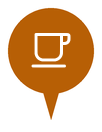
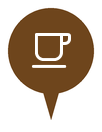
Collection kinds without pills, and cafés/eats colours pulled apart (#1307)
* Collection kinds as Explore's filter row: the dot and the word, no pill

On a collection's card the kind pills were a box inside a box. The owner
asked whether the dot and the label would do (12 Nov 2026).

As a filter they do, if "chosen" is still said. `KindPills` takes
`bare`:

- Each kind is drawn as its dot and its word, on no fill.
- The chosen one wears Explore's accent rule under the word, with the
  word in the accent. The other filter row in the app says "chosen" the
  same way.
- The rule is drawn clear on the rest, so choosing moves nothing.
- A collection with one kind filters nothing, and shows the dot and the
  word alone.

The gap between kinds is 18pt: Explore's 22 between 15pt words scales
to 19 for these 13pt ones, and one point comes off for the dot in front
of each word.

Claude-Session: https://claude.ai/code/session_0173RhrvC7XRbsWK1BenkCKq

* Cafés and eats pulled apart: coffee brown and a brighter orange

The owner found the two kinds' colours could not be told apart side by
side on a collection's card, and asked for new ones, knowing the map's
pins follow (12 Nov 2026).

Measured at the worst of normal, deuteranopic and protanopic vision
(CIEDE2000):

- The two dots sat 6° apart at one lightness, 2.7 apart.
- The eats pin sat 1.1 from nature's for a red-green reader.

The fix keeps the convention a reader already holds (coffee is brown,
food is orange) and pulls the two apart in lightness, the one
[…]

diff --git a/app/src/components/KindPill.tsx b/app/src/components/KindPill.tsx
@@ -44,11 +44,14 @@ import { PressableScale } from './ui';
  * out. A key the table has not learned keeps its word, tidied, and has
  * no dot: a colour is a category's, and an unknown one has none to give.
  */
-export function KindPill({ kind, more = 0, chosen = false, off = false, bare = false, testID }: {
+export function KindPill({ kind, more = 0, chosen = false, off = false, bare = false, underline = false, testID }: {
   kind: string; more?: number;
   /** The place card's form (owner, 6 Nov 2026): the dot and the word on
    *  the page itself, with no pill under them — see `bare` below. */
   bare?: boolean;
+  /** Bare and a filter: chosen says itself with Explore's rule under the
+   *  word rather than a lit pill — see `KindPills`. */
+  underline?: boolean;
   /** Lit as a chosen filter — see `KindPills`. */
   chosen?: boolean;
   /** Hidden by the list's owner — see `KindToggles`. */
@@ -58,7 +61,7 @@ export function KindPill({ kind, more = 0, chosen = false, off = false, bare = f
   const { t } = useI18n();
   const style = CATEGORIES[kind];
   return (
-    <View style={[bare ? s.bare : s.pill, chosen && s.pillOn, off && s.pillOff]} testID={testID}>
+    <View style={[bare ? s.bare : s.pill, bare && underline && s.rule, chosen && (bare ? underline && s.ruleOn : s.pillOn), off && s.pillOff]} testID={testID}>
       {style ? <View style={[s.dot, { backgroundColor: off ? colors.textTertiary : style.color }]} /> : null}
       <Text style={[s.label, bare && s.labelBare, chosen && s.labelOn]} numberOfLines={1}>{categoryLabel(kind, t)}</Text>
       {more > 0 ? (
@@ -87,8 +90,16 @@ export function KindPill({ kind, more = 0, chosen = false, off = false, bare = f
  * and pills, so two pills' slops meet and never overlap — a tap lands on
  * the pill it is nearest.
  */
-export function KindPills({ kinds, chosen = [], onPick, style, testID }: {
+export function KindPills({ kinds, chosen = [], onPick, bare = false, style, testID }: {
   kinds: readonly string[];
+  /**
+   * The dot and the word with no pill (owner, 12 Nov 2026): on a
+   * collection's card the pills were a box inside a box. As a filter the
+   * chosen one takes Explore's rule under the word and the accent on it,
+   * so the two filter rows in the app say "chosen" the same way; a lone
+   * kind, which filters nothing, is the dot and the word alone.
+   */
+  bare?: boolean;
   chosen?: readonly string[];
   onPick?: (kind: string) => void;
   style?: StyleProp<ViewStyle>;
@@ -97,10 +108,10 @@ export function KindPills({ kinds, chosen = [], onPick, style, testID }: {
   const { t } = useI18n();
   if (!kinds.length) return null;
   return (
-    <View style={[s.row, style]} testID={testID}>
+    <View style={[s.row, bare && s.rowBare, style]} testID={testID}>
       {kinds.map((k) => {
         const id = testID ? `${testID}-${k}` : undefined;
-        if (!onPick) return <KindPill key={k} kind={k} testID={id} />;
+        if (!onPick) return <KindPill key={k} kind={k} bare={bare} testID={id} />;
         const on = chosen.includes(k);
         return (
           <PressableScale
@@ -114,7 +125,7 @@ export function KindPills({ kinds, chosen = [], onPick, style, testID }: {
             aria-selected={on}
             testID={id}
           >
-            <KindPill kind={k} chosen={on} />
+            <KindPill kind={k} chosen={on} bare={bare} underline={bare} />
           </PressableScale>
         );
       })}
@@ -220,4 +231,12 @@ const s = StyleSheet.create({
   // paper, 6:1 on charcoal).
   moreBare: { color: colors.textTertiary },
   row: { flexDirection: 'row', flexWrap: 'wrap', gap: 8 },
+  // With no pill, the gap is what tells one kind from the next: Explore's
+  // 22 between 15pt words, scaled to these 13pt ones (19), down a point
+  // for the dot each of these carries in front of its word.
+  rowBare: { columnGap: 18 },
+  // Explore's rule (`tabItem`): drawn clear when unchosen, so choosing one
+  // changes a colour and moves nothing.
+  rule: { paddingVertical: 4, borderBottomWidth: 2, borderBottomColor: 'transparent' },
+  ruleOn: { borderBottomColor: colors.accent },
 });

diff --git a/app/src/lib/categories.ts b/app/src/lib/categories.ts
@@ -53,7 +53,8 @@ export type CategoryStyle = {
    * Hue is identical to `color`, which is what makes this the same colour
    * rather than a second one. Solved in that order and no other: exact
    * hue first, then saturation at or above 55%, then the lightest
-   * remaining step whose glyph still clears 4.5:1. Never against a fixed
+   * remaining step whose glyph still clears 4.5:1 — save `cafes`, taken
+   * darker to stand off `eats` (see above `STYLES`). Never against a fixed
    * lightness — blue and green carry more luminance at the same HSL step
    * and would hand `nature` a 2.32:1 glyph. `views` lands at 6.63 because
    * the lighter candidates on its line miss the hue by a fifth of a
@@ -82,15 +83,39 @@ export type Category = typeof CATEGORY_ORDER[number];
 /** Every key in `CATEGORY_ORDER` has a row, or this does not compile —
  *  a category added to the order without its style used to surface as a
  *  chip with no glyph. */
+// ── cafés and eats, pulled apart (owner, 12 Nov 2026) ──
+//
+// They sat 6° apart, at 30° and 24°, at one lightness: side by side on a
+// collection's card the owner could not tell them apart, and measured
+// they were 2.7 apart in CIEDE2000 at the worst of normal, deuteranopic
+// and protanopic vision — about the step at which two colours start to
+// separate at all. Their pins were worse: eats sat 1.1 from nature for a
+// red-green reader.
+//
+// Kept on the convention a reader already holds — coffee is brown, food
+// is orange, as both phone map apps colour them — and pulled apart in
+// lightness, the one difference no kind of colour blindness takes away.
+// Cafés went down to a coffee brown, eats up to a brighter orange, each
+// on its own hue as before:
+//
+//              dot                 pin               dots apart  pin's nearest
+//   was   cafés #D2A679  eats #E09A6B   #B75F05 #A45E2F    2.7      eats–nature 1.1
+//   now   cafés #A6733F  eats #EB8347   #6E451C #B16133   10.0      eats–nature 3.9
+//
+// The cost is that the cafés' dot is the darkest of the nine on paper
+// (3.6:1 against the others' 1.8–2.5), and its pin is darker than the
+// rule under `pin` gives: the lightest step on its line, #A36A2F, was 0.5
+// from the eats pin. Coffee is the kind the catalog holds most of, and
+// a darker brown is still coffee.
 const STYLES = {
   cafes: {
-    en: 'Cafés', vi: 'Cà phê', ja: 'カフェ', zh: '咖啡馆', hant: '咖啡館', icon: 'cafe-outline', color: '#D2A679',
-    pin: '#B75F05', food: true,
+    en: 'Cafés', vi: 'Cà phê', ja: 'カフェ', zh: '咖啡馆', hant: '咖啡館', icon: 'cafe-outline', color: '#A6733F',
+    pin: '#6E451C', food: true,
     terms: ['coffee', 'espresso', 'latte', 'quán cà phê', 'cà phê', 'コーヒー', '喫茶', '咖啡'],
   },
   eats: {
-    en: 'Eats', vi: 'Ăn uống', ja: '食事', zh: '美食', hant: '美食', icon: 'restaurant-outline', color: '#E09A6B',
-    pin: '#A45E2F', food: true,
+    en: 'Eats', vi: 'Ăn uống', ja: '食事', zh: '美食', hant: '美食', icon: 'restaurant-outline', color: '#EB8347',
+    pin: '#B16133', food: true,
     terms: ['restaurant', 'food', 'dining', 'lunch', 'dinner', 'nhà hàng', 'quán ăn', 'ăn uống', 'レストラン', 'グルメ', '餐厅', '美食', '餐廳'],
   },
   views: {

diff --git a/app/src/components/KindPill.ui.test.tsx b/app/src/components/KindPill.ui.test.tsx
@@ -98,6 +98,33 @@ describe('KindPills as a filter', () => {
   });
 });
 
+// Bare (owner, 12 Nov 2026): a collection's kinds on its card with no
+// pill. As a filter the chosen one wears Explore's accent rule under the
+// word, drawn clear on the rest; a row that filters nothing has no rule.
+describe('KindPills, bare', () => {
+  const face = (id: string) => getComputedStyle(screen.getByTestId(id).firstElementChild!.firstElementChild as HTMLElement);
+  const accent = String(colors.accent).replace(/,(?=\S)/g, ', ');
+  const hex = (h: string) => { const n = parseInt(h.slice(1), 16); return `rgb(${n >> 16}, ${(n >> 8) & 255}, ${n & 255})`; };
+
+  it('rules the chosen one in the accent, the rest clear, on no fill', () => {
+    render(<KindPills kinds={['eats', 'views']} chosen={['views']} onPick={() => {}} bare testID="row" />);
+    expect(face('row-views').borderBottomColor).toBe(accent.startsWith('#') ? hex(accent) : accent);
+    expect(face('row-eats').borderBottomColor).toBe('rgba(0, 0, 0, 0)');
+    for (const id of ['row-views', 'row-eats']) {
+      expect(face(id).borderBottomWidth).toBe('2px');
+      expect(face(id).backgroundColor).toBe('rgba(0, 0, 0, 0)');
+    }
+    expect(getComputedStyle(screen.getByTestId('row')).columnGap).toBe('18px');
+  });
+
+  it('is the dot and the word alone where it filters nothing', () => {
+    render(<KindPills kinds={['eats']} bare testID="row" />);
+    const one = getComputedStyle(screen.getByTestId('row-eats'));
+    expect(one.backgroundColor).toBe('rgba(0, 0, 0, 0)');
+    expect(one.borderBottomWidth).not.toBe('2px');
+  });
+});
+
 // The list form's show/hide row (owner, 16 Oct 2026): the page's pills,
 // each a toggle. Shown is drawn as the page draws it; hidden fades in
 // place with its dot greyed.

diff --git a/app/src/screens/CollectionDetailScreen.ui.test.tsx b/app/src/screens/CollectionDetailScreen.ui.test.tsx
@@ -1904,15 +1904,16 @@ describe('the chips', () => {
     expect(on('nightlife')).toBe(true);
     expect(cards()).toEqual(['card:Cafe Giang']);
     expect(screen.getByTestId('collection-filter-count').textContent).toBe('1 of 4 places');
-    // Lit as Explore's chips are, and only while chosen: the glass a step
-    // heavier, its border drawn in the glass's own line — not an accent
-    // ring — and the word in the accent.
+    // No pill (owner, 12 Nov 2026): the dot and the word, and the chosen
+    // one says so as Explore's filter row does — the accent rule under the
+    // word, drawn clear on the rest so nothing moves — on no fill at all.
     const lit = getComputedStyle(pillOf('nightlife'));
     const unlit = getComputedStyle(pillOf('eats'));
-    expect(lit.borderTopColor).not.toBe(unlit.borderTopColor);
-    expect(lit.backgroundColor).not.toBe(unlit.backgroundColor);
-    expect(lit.borderTopColor).toBe(rgba(String(colors.borderGlass)));
-    expect(lit.borderTopColor).not.toBe(rgba(String(colors.accent)));
+    expect(lit.borderBottomColor).toBe(rgba(String(colors.accent)));
+    expect(unlit.borderBottomColor).toBe('rgba(0, 0, 0, 0)');
+    expect(lit.borderBottomWidth).toBe('2px');
+    expect(unlit.borderBottomWidth).toBe('2px');
+    for (const st of [lit, unlit]) expect(st.backgroundColor).toBe('rgba(0, 0, 0, 0)');
     // One kind at a time (owner, 24 Oct 2026): a second chip moves to its
     // kind rather than widening.
     fireEvent.click(chip('heritage'));

diff --git a/app/src/lib/taxonomy.test.ts b/app/src/lib/taxonomy.test.ts
@@ -230,6 +230,22 @@ function hue(hex: string): number {
 
 const WHITE = '#FFFFFF';
 
+// Cafés and eats, the two kinds most often side by side (owner, 12 Nov
+// 2026): they sat 6° apart at one lightness, and could not be told apart
+// on a collection's card. Pulled apart in lightness, the one difference
+// every kind of colour vision keeps — see the note above `STYLES`.
+describe('cafés and eats', () => {
+  it('differ in lightness on the page and on the map', () => {
+    expect(contrast(CATEGORIES.cafes.color, CATEGORIES.eats.color)).toBeGreaterThanOrEqual(1.5);
+    expect(contrast(CATEGORIES.cafes.pin, CATEGORIES.eats.pin)).toBeGreaterThanOrEqual(1.8);
+  });
+
+  it('stay coffee-brown and orange, on their own hues', () => {
+    expect(hue(CATEGORIES.cafes.color)).toBeCloseTo(30.3, 0);
+    expect(hue(CATEGORIES.eats.color)).toBeCloseTo(22, 0);
+  });
+});
+
 describe('the map pin palette', () => {
   it('gives every category in the filter row a fill', () => {
     for (const key of CATEGORY_ORDER) {

diff --git a/app/src/screens/CollectionDetailScreen.tsx b/app/src/screens/CollectionDetailScreen.tsx
@@ -544,6 +544,7 @@ export default function CollectionDetailScreen({ navigation, route }: { navigati
         kinds={kinds}
         chosen={chosen}
         onPick={filters ? pick : undefined}
+        bare
         testID="collection-kinds"
       />
       {narrowed ? (

diff --git a/app/scripts/map-pins.py b/app/scripts/map-pins.py
@@ -43,7 +43,11 @@ WHITE = (255, 255, 255, 255)
 def parse_table():
     """(key, icon, fill) for each category, in the file's own order."""
     src = CATEGORIES_TS.read_text()
-    body = src.split('export const CATEGORIES', 1)[1]
+    # The table is `STYLES` (typed against `Category` so a missing row does
+    # not compile) and `CATEGORIES` is its loose-typed alias after it; the
+    # parse used to start at the alias, and found nothing once the table
+    # moved above it. Read from the table to the end of its literal.
+    body = src.split('const STYLES = {', 1)[1].split('} satisfies', 1)[0]
     out = []
     for m in re.finditer(
         r"\n  (\w+): \{(.*?)\n  \},", body, re.S
